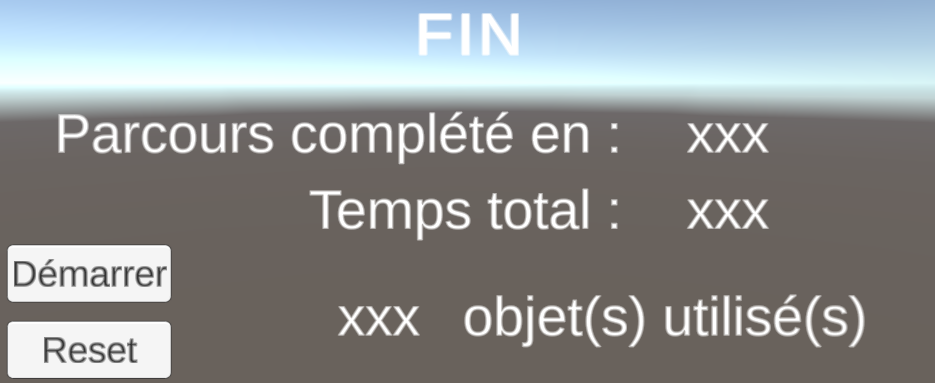
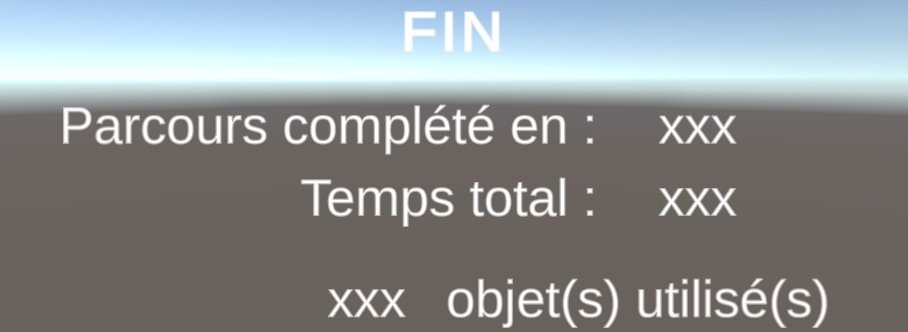
Add endingmenu to user manual.

diff --git a/README.md b/README.md
@@ -30,10 +30,14 @@ Aides :
         - ``Drone`` : Coin/Angle
     ![ImagesReadMe/ImagesTarget.png](ImagesReadMe/ImagesTarget.png)
     - Sélectionner l'objet virtuel visible sur l'image target
-    - Sélectionner le mode de placement avec le bouton central en haut: ``Roration``, ``Position``. Le mode en cours est indiqué en dessous du bouton
+    - Sélectionner le mode de placement avec le bouton central en haut: ``Rotation``, ``Position``. Le mode en cours est indiqué en dessous du bouton
     ![ImagesReadMe/EditMenuRotate.png](ImagesReadMe/EditMenuRotate.png)
     ![ImagesReadMe/EditMenuMove.png](ImagesReadMe/EditMenuMove.png)
     - Modifier la position ou rotation sur les 3 axes (x, y, z) à l'aide des 3 glissières en bas à droite
     - Appuyer sur ``Ajouter``, en haut à gauche, pour fixer l'objet à son emplacement actuel
     - Appuyer sur la croix, en haut à droite, pour annuler la sélection de l'objet
-- 
+- Le résumer de la partie s'affiche lorsque le parcours est complété et comprend :
+    - Le nombre de reset
+    - Le temps total de jeu
+    - Le nombre d'objets utilisés
+    ![ImagesReadMe/EndMenu.png](ImagesReadMe/EndMenu.png)
